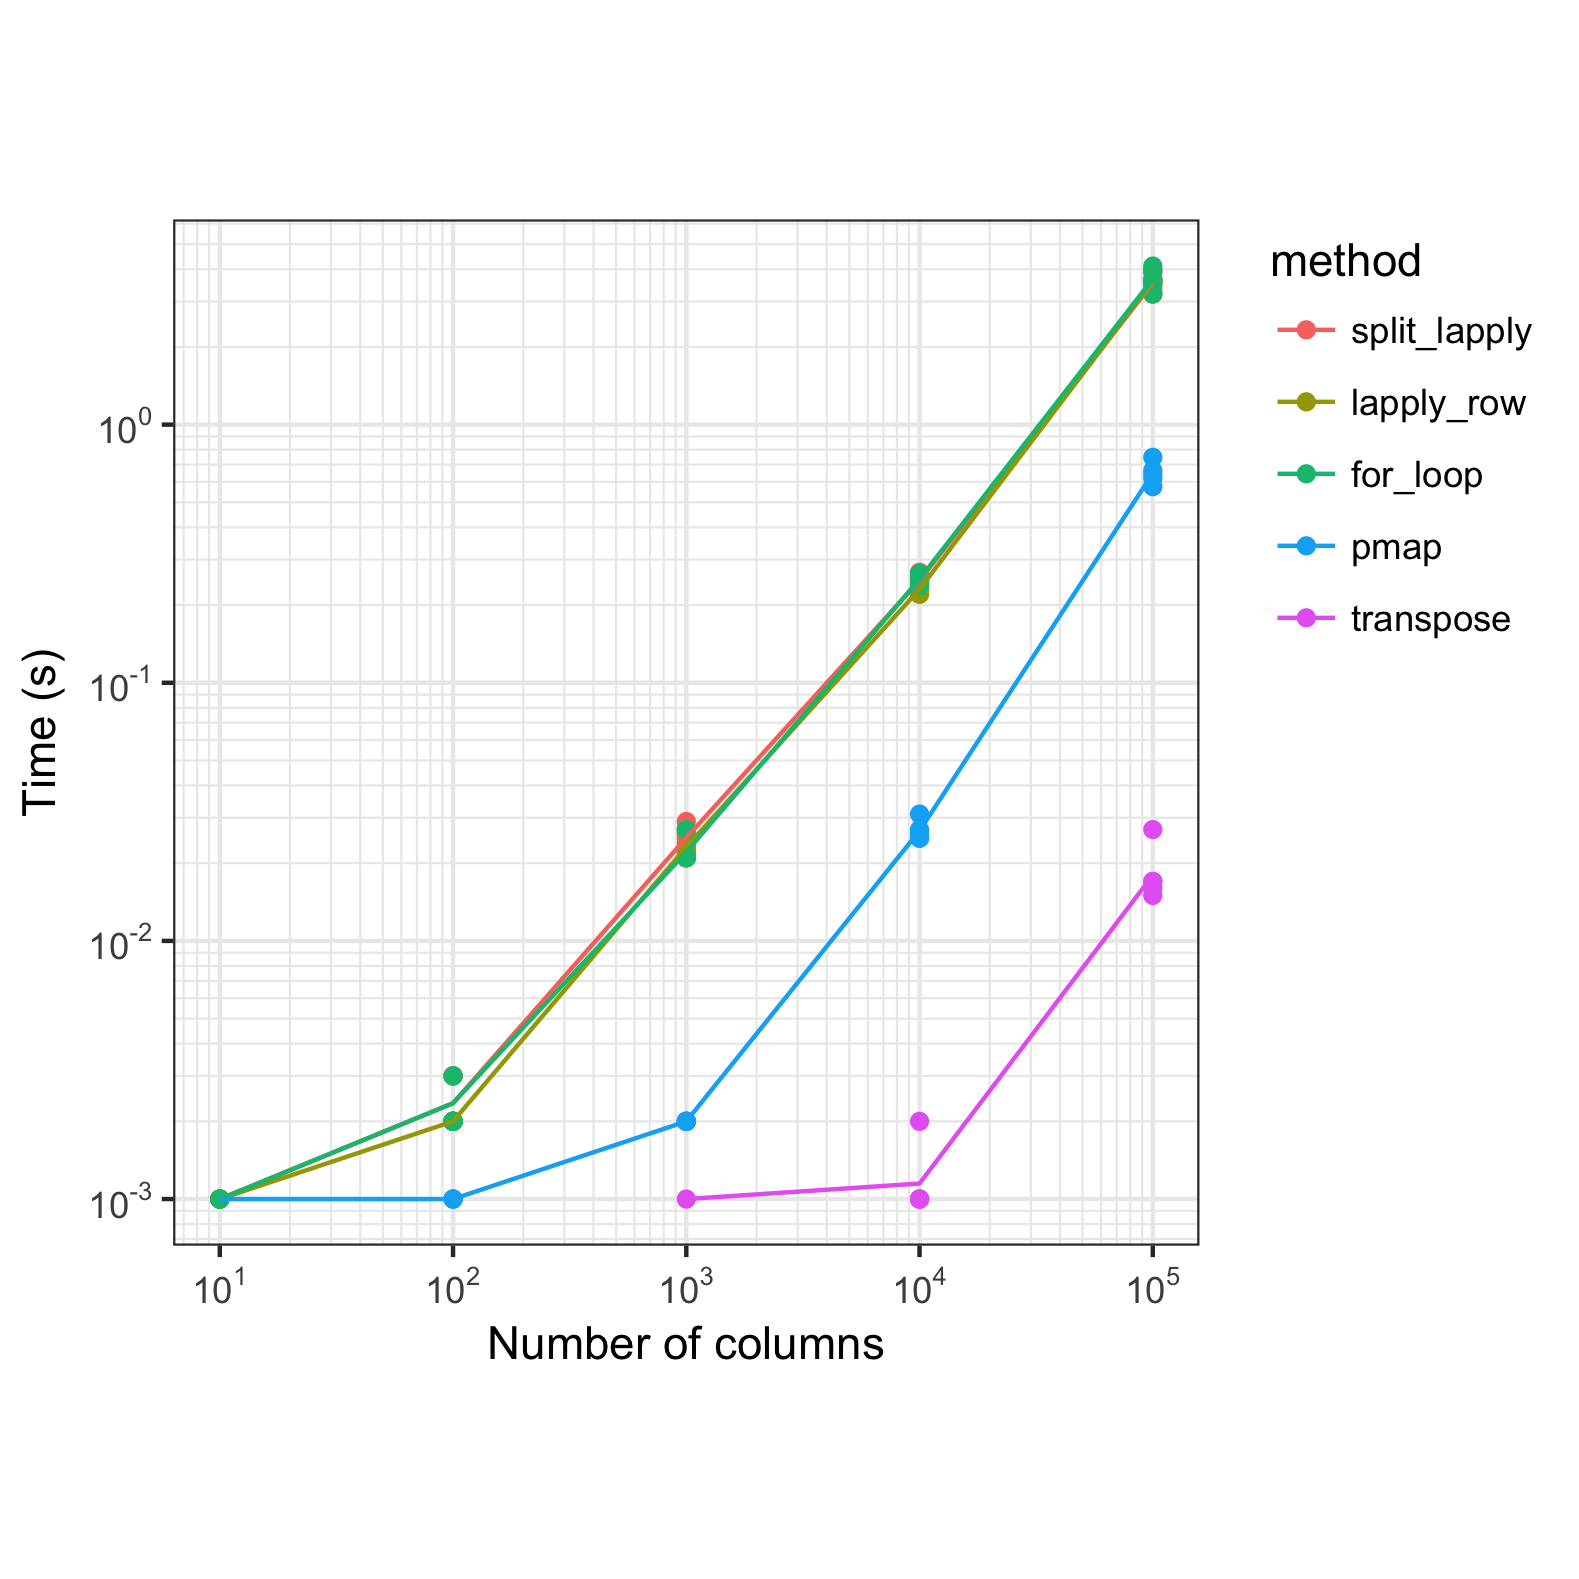
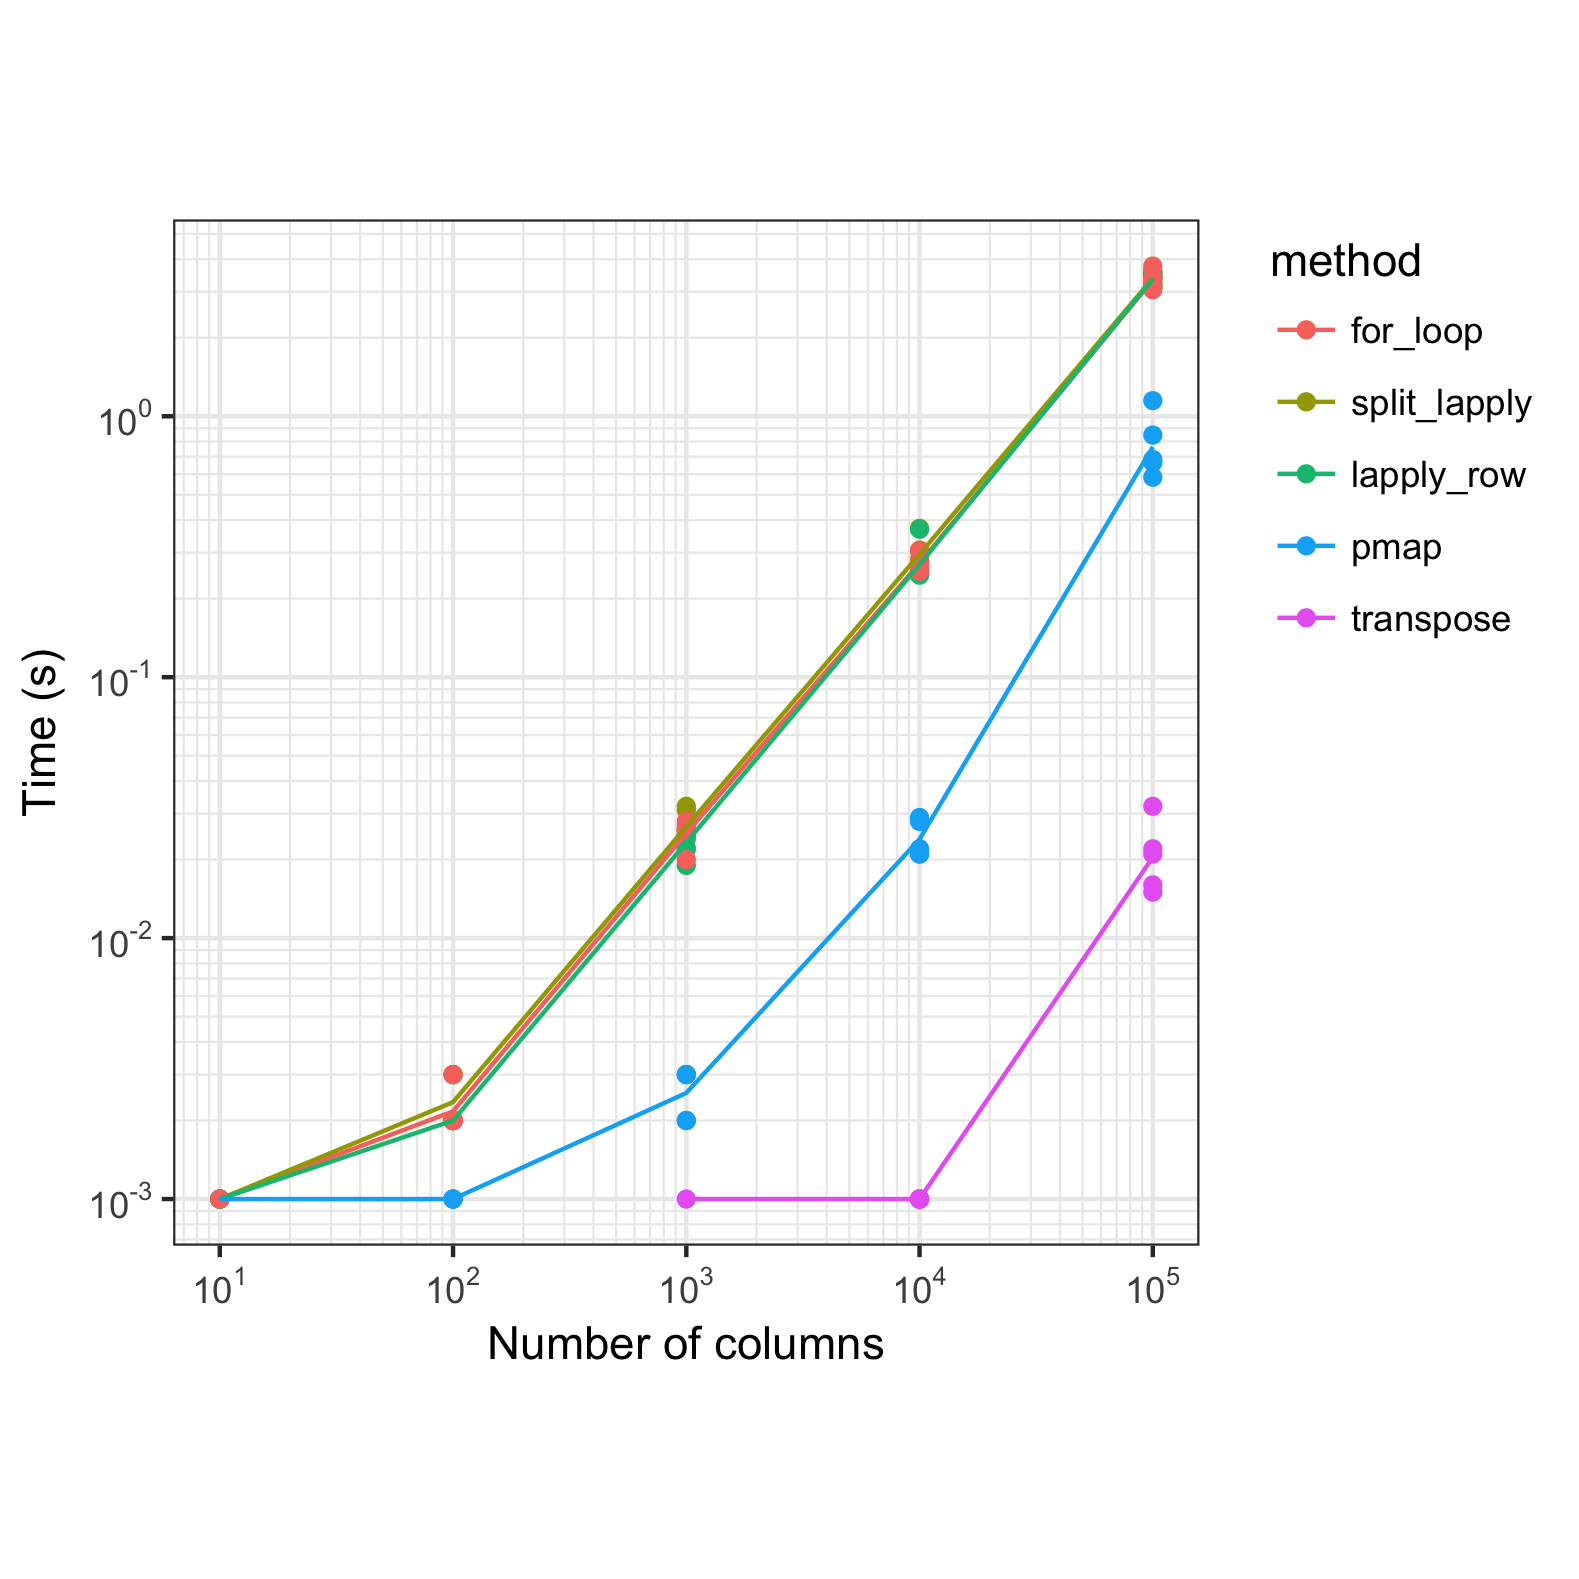
Render the "iterate over rows" benchmark

diff --git a/iterate-over-rows.md b/iterate-over-rows.md
@@ -1,20 +1,36 @@
-#' ---
-#' title: "Turn data frame into a list, one component per row"
-#' author: "Jenny Bryan, updating work of Winston Chang"
-#' date: "`r format(Sys.Date())`"
-#' output: github_document
-#' ---
-#'
-#' Update of <https://rpubs.com/wch/200398>.
-#'
-#'   * Added some methods, removed some methods.
-#'   * Run every combination of problem size & method multiple times.
-#'   * Explore different number of rows and columns, with mixed col types.
+Turn data frame into a list, one component per row
+================
+Jenny Bryan, updating work of Winston Chang
+2018-04-10
 
+Update of <https://rpubs.com/wch/200398>.
+
+  - Added some methods, removed some methods.
+  - Run every combination of problem size & method multiple times.
+  - Explore different number of rows and columns, with mixed col types.
+
+<!-- end list -->
+
+``` r
 library(scales)
 library(forcats)
 library(tidyverse)
+```
 
+    ## ── Attaching packages ───────────────────────────────────────── tidyverse 1.2.1 ──
+
+    ## ✔ ggplot2 2.2.1          ✔ readr   1.1.1.9000
+    ## ✔ tibble  1.4.2          ✔ purrr   0.2.4.9000
+    ## ✔ tidyr   0.8.0          ✔ dplyr   0.7.4.9000
+    ## ✔ ggplot2 2.2.1          ✔ stringr 1.3.0
+
+    ## ── Conflicts ──────────────────────────────────────────── tidyverse_conflicts() ──
+    ## ✖ readr::col_factor() masks scales::col_factor()
+    ## ✖ purrr::discard()    masks scales::discard()
+    ## ✖ dplyr::filter()     masks stats::filter()
+    ## ✖ dplyr::lag()        masks stats::lag()
+
+``` r
 # for loop over row index
 f_for_loop <- function(df) {
   out <- vector(mode = "list", length = nrow(df))
@@ -143,17 +159,43 @@ plot_it <- function(df, what = "nrow") {
 #df_r <- map_df(10 ^ (1:5), run_row_benchmark) %>% flevels()
 #write_csv(df_r, "row-benchmark.csv")
 df_r <- read_csv("row-benchmark.csv") %>% flevels()
+```
 
-#+ row-benchmark
+    ## Parsed with column specification:
+    ## cols(
+    ##   nrow = col_double(),
+    ##   method = col_character(),
+    ##   time = col_double()
+    ## )
+
+``` r
 plot_it(df_r, "nrow")
+```
+
+![](iterate-over-rows_files/figure-gfm/row-benchmark-1.png)<!-- -->
+
+``` r
 #ggsave("row-benchmark.png")
 
 #df_c <- map_df(10 ^ (1:5), run_col_benchmark) %>% flevels()
 #write_csv(df_c, "col-benchmark.csv")
 df_c <- read_csv("col-benchmark.csv") %>% flevels()
+```
 
-#+ col-benchmark
+    ## Parsed with column specification:
+    ## cols(
+    ##   ncol = col_double(),
+    ##   method = col_character(),
+    ##   time = col_double()
+    ## )
+
+``` r
 plot_it(df_c, "ncol")
+```
+
+![](iterate-over-rows_files/figure-gfm/col-benchmark-1.png)<!-- -->
+
+``` r
 #ggsave("col-benchmark.png")
 
 ## used at first, but saw same dramatic gc artefacts as described here
@@ -176,3 +218,4 @@ plot_it(df_c, "ncol")
 #     mutate(method = as.character(method)) %>%
 #     add_column(nrow = nrow, .before = 1)
 # }
+```
